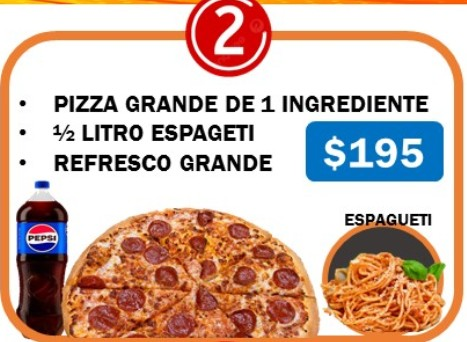
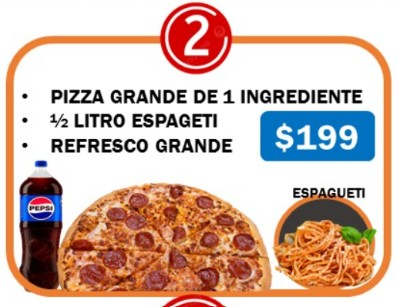
Add files via upload

diff --git a/script.js b/script.js
@@ -1,7 +1,7 @@
 // Datos de Pizzas, Paquetes y Complementos
 
 // Versión de las imágenes - Cambia este número cuando subas nuevas imágenes para forzar la recarga
-const IMAGE_VERSION = "v2.1";
+const IMAGE_VERSION = "v2.2";
 
 // Función para agregar versión a las URLs de imágenes y evitar caché
 function getImageUrl(imgPath) {
@@ -28,7 +28,14 @@ const ingredientes = [
 ];
 
 const ingredientesExtra = {};
-  
+
+// Especialidades: si en "Crea tu pizza" eliges exactamente estos ingredientes, se aplica el precio fijo
+const especialidadesPizza = [
+    { name: 'Hawaiana', ingredientes: ['Jamón', 'Piña'].sort(), price: 159 },
+    { name: '3 Carnes', ingredientes: ['Jamón', 'Pepperoni', 'Salchicha Italiana'].sort(), price: 179 },
+    { name: 'Ala mexicana', ingredientes: ['Cebolla', 'Chorizo', 'Pimiento Morron'].sort(), price: 179 },
+    { name: 'Suprema', ingredientes: ['Cebolla', 'Champiñones', 'Jamón', 'Pepperoni', 'Pimiento Morron', 'Salchicha Italiana'].sort(), price: 199 }
+];
 
 const opcionesAdicionales = {
     orillaRellena: false, // Orilla rellena de queso
@@ -51,19 +58,19 @@ const pizzas = [
 
     { id: "pizza-peperoniExtra", type: "pizza", id: "mitamita", name: "1/2 Peperoni 1/2 Queso ", img: "imgs/pizzamitamita.jpeg", price: 119 },
 
-    { id: "pizza-suprema", type: "pizza", id: "suprema", name: "Pizza Suprema", img: "imgs/suprema.jpg", price: 189 },
+    { id: "pizza-suprema", type: "pizza", id: "suprema", name: "Pizza Suprema", img: "imgs/suprema.jpg", price: 199 },
     
     { id: "pizza-hawaiana", type: "pizza", id: "hawaiana", name: "Pizza Hawaiana", img: "imgs/hawaiana.jpg", price: 159 },
     
     { id: "pizza-trompo", type: "pizza", id: "trompo", name: "Pizza De Trompo", img: "imgs/pizzaTrompo.jpg", price: 169 },
     
-    { id: "pizza-3carnes", type: "pizza", id: "3carnes", name: "Pizza 3 Carnes", img: "imgs/3carnes.jpg", price: 169 },
+    { id: "pizza-3carnes", type: "pizza", id: "3carnes", name: "Pizza 3 Carnes", img: "imgs/3carnes.jpg", price: 179 },
     
     { id: "pizza-alpastor", type: "pizza", id: "alpastor", name: "Pizza Al Pastor", img: "imgs/pizzaAlPastor.jpg", price: 179 },
     
     { id: "pizza-boneless", type: "pizza", id: "pizzaBoneless", name: "Pizza de Boneless con Aderezo", img: "imgs/pizzaBoneless.jpg", price: 189 },
     
-    { id: "pizza-mexicana", type: "pizza", id: "mexicana", name: "Pizza A la Mexicana", img: "imgs/mexicana.jpg", price: 189 },
+    { id: "pizza-mexicana", type: "pizza", id: "mexicana", name: "Pizza A la Mexicana", img: "imgs/mexicana.jpg", price: 179 },
     
     { id: "pizza-cheetos", type: "pizza", id: "cheetos", name: "Pizza de Cheetos Flamin Hot", img: "imgs/cheetos.jpg", price: 179 },
     
@@ -76,7 +83,7 @@ const paquetes = [
         name: "Paquete 1",
         id: "paquete-1", 
         img: "imgs/Paquete1.jpg", 
-        price: 265, 
+        price: 279, 
         products: [
             { type: "pizza", name: "Pizza de Peperoni", options: { ingredients: ingredientes } },
             { type: "bonealitas", name: "Boneless", options: { sauces: ["BBQ", "Buffalo", "Mango Habanero", "Parmesano", "Lemon Pepper"], type: ["Bañados", "Naturales"] } },
@@ -88,7 +95,7 @@ const paquetes = [
         name: "Paquete 2",
         id: "paquete-2", 
         img: "imgs/Paquete2.jpg", 
-        price: 195, 
+        price: 199, 
         products: [
             { type: "pizza", name: "Pizza de Peperoni", options: { ingredients: ingredientes } },
             { type: "complementos", name: "Espagueti Sencillo" },
@@ -100,7 +107,7 @@ const paquetes = [
         name: "Paquete 3",
         id: "paquete-3", 
         img: "imgs/Paquete3.jpg", 
-        price: 225, 
+        price: 229, 
         products: [
             { type: "pizza", name: "Pizza De Boneless (Bañados o Naturales)", options: { sauces: ["BBQ", "Buffalo", "Mango Habanero", "Parmesano", "Lemon Pepper"], type: ["Bañados", "Naturales"] } },
             { type: "complemento", name: "Aderezo A Elegir", options: { sauces: ["Ranch", "Jalapeño", "Chipotle", "BBQ", "Buffalo", "Mango Habanero", "Parmesano", "Lemon Pepper"] } },
@@ -113,7 +120,7 @@ const paquetes = [
         name: "Paquete 4", 
         id: "paquete-4",
         img: "imgs/Paquete4.jpg", 
-        price: 315, 
+        price: 329, 
         products: [
             { type: "pizza", name: "2 Pizzas de Peperoni con Extra Queso", options: { ingredients: ingredientes, multiple: true } },
             { type: "bebida", name: "Refresco Grande 1.75L" }
@@ -124,7 +131,7 @@ const paquetes = [
         name: "Paquete 5", 
         id: "paquete-5",
         img: "imgs/Paquete5.jpg", 
-        price: 315, 
+        price: 329, 
         products: [
             { type: "pizza", name: "Pizza Grande de 1 Ingrediente", options: { ingredients: ingredientes } },
             { type: "bonealitas", name: "Boneless con Papas", options: { sauces: ["BBQ", "Buffalo", "Mango Habanero", "Parmesano", "Lemon Pepper"], type: ["Bañados", "Naturales"] } },
@@ -137,8 +144,8 @@ const paquetes = [
 const bonealitas = [
     { id: "bonealitas-boneless", type: "bonealitas", name: "Boneless", img: "imgs/boneless.jpg", price: 139, options: { sauces: ["BBQ", "Buffalo", "Mango Habanero", "Parmesano", "Lemon Pepper"], type: ["Bañados", "Naturales"] } },
     { id: "bonealitas-alitas", type: "bonealitas", name: "Alitas", img: "imgs/alitas.jpg", price: 139, options: { sauces: ["BBQ", "Buffalo", "Mango Habanero", "Parmesano", "Lemon Pepper"], type: ["Bañados", "Naturales"] } },
-    { id: "bonealitas-1kg-boneless", type: "bonealitas", name: "1Kg de Boneless (No incluye papas)", img: "imgs/kiloBoneless.jpg", price: 279, options: { sauces: ["BBQ", "Buffalo", "Mango Habanero", "Parmesano", "Lemon Pepper"], type: ["Bañados", "Naturales"] } },
-    { id: "bonealitas-1kg-alitas", type: "bonealitas", name: "1Kg de Alitas  (No incluye papas)", img: "imgs/alitas.jpg", price: 279, options: { sauces: ["BBQ", "Buffalo", "Mango Habanero", "Parmesano", "Lemon Pepper"], type: ["Bañados", "Naturales"] } }
+    { id: "bonealitas-1kg-boneless", type: "bonealitas", name: "1Kg de Boneless (No incluye papas)", img: "imgs/kiloBoneless.jpg", price: 289, options: { sauces: ["BBQ", "Buffalo", "Mango Habanero", "Parmesano", "Lemon Pepper"], type: ["Bañados", "Naturales"] } },
+    { id: "bonealitas-1kg-alitas", type: "bonealitas", name: "1Kg de Alitas  (No incluye papas)", img: "imgs/alitas.jpg", price: 289, options: { sauces: ["BBQ", "Buffalo", "Mango Habanero", "Parmesano", "Lemon Pepper"], type: ["Bañados", "Naturales"] } }
 ];
 
 const complementos = [
@@ -1133,7 +1140,15 @@ function calcularPrecioPizza(ingredientesSeleccionados, orillaRellena = false, i
     }
 
     // Lógica para pizza grande (por defecto)
-    if (ingredientesSeleccionados.length === 0) {
+    // Especialidad solo aplica sin orilla rellena ni queso extra; si agregan eso, se cobra por ingredientes normal + extras
+    const sortedIng = [...ingredientesSeleccionados].sort();
+    const especialidadMatch = !orillaRellena && !quesoExtra && especialidadesPizza.find(esp =>
+        esp.ingredientes.length === sortedIng.length &&
+        esp.ingredientes.every((ing, i) => ing === sortedIng[i])
+    );
+    if (especialidadMatch) {
+        precioBase = especialidadMatch.price;
+    } else if (ingredientesSeleccionados.length === 0) {
         precioBase = 0;
     } else if (ingredientesSeleccionados.length === 1) {
         // Si tiene doble queso, se cancela la promo y se cobra como 1 ingrediente
@@ -1163,32 +1178,18 @@ function calcularPrecioPizza(ingredientesSeleccionados, orillaRellena = false, i
     } else if (ingredientesSeleccionados.length === 2) {
         precioBase = 159;
     } else if (ingredientesSeleccionados.length === 3) {
-        precioBase = 169;
+        precioBase = 179;
     } else if (ingredientesSeleccionados.length >= 4) {
         const ingredientesExtra = ingredientesSeleccionados.length - 3;
-        precioBase = 169 + (ingredientesExtra * 10);
+        precioBase = 179 + (ingredientesExtra * 10); // 3 ing = $179, del 4to en adelante +$10 c/u
     }
 
-    // Si tiene orilla rellena
+    // Si tiene orilla rellena: siempre +$40 (igual que queso extra)
     if (orillaRellena) {
-        // Si era promo de 1 ingrediente, se cancela la promo y se cobra como pizza normal de 1 ingrediente
         if (esPromo && ingredientesSeleccionados.length === 1) {
-            precioBase = 129; // Precio base de 1 ingrediente
-            precioBase += 40; // Agregar $40 de orilla
-        } 
-        // Si son 2 o 3 ingredientes con orilla, ambos son $199
-        else if (ingredientesSeleccionados.length === 2 || ingredientesSeleccionados.length === 3) {
-            precioBase = 199; // 2 o 3 ingredientes con orilla = $199
+            precioBase = 129; // Se cancela la promo, se cobra como 1 ingrediente
         }
-        // Si son 4+ ingredientes con orilla, es $199 + $10 por cada ingrediente extra
-        else if (ingredientesSeleccionados.length >= 4) {
-            const ingredientesExtra = ingredientesSeleccionados.length - 3;
-            precioBase = 199 + (ingredientesExtra * 10);
-        }
-        // Para 1 ingrediente que no es promo, solo agregar $40
-        else if (ingredientesSeleccionados.length === 1) {
-            precioBase += 40;
-        }
+        precioBase += 40;
     }
 
     return precioBase;
